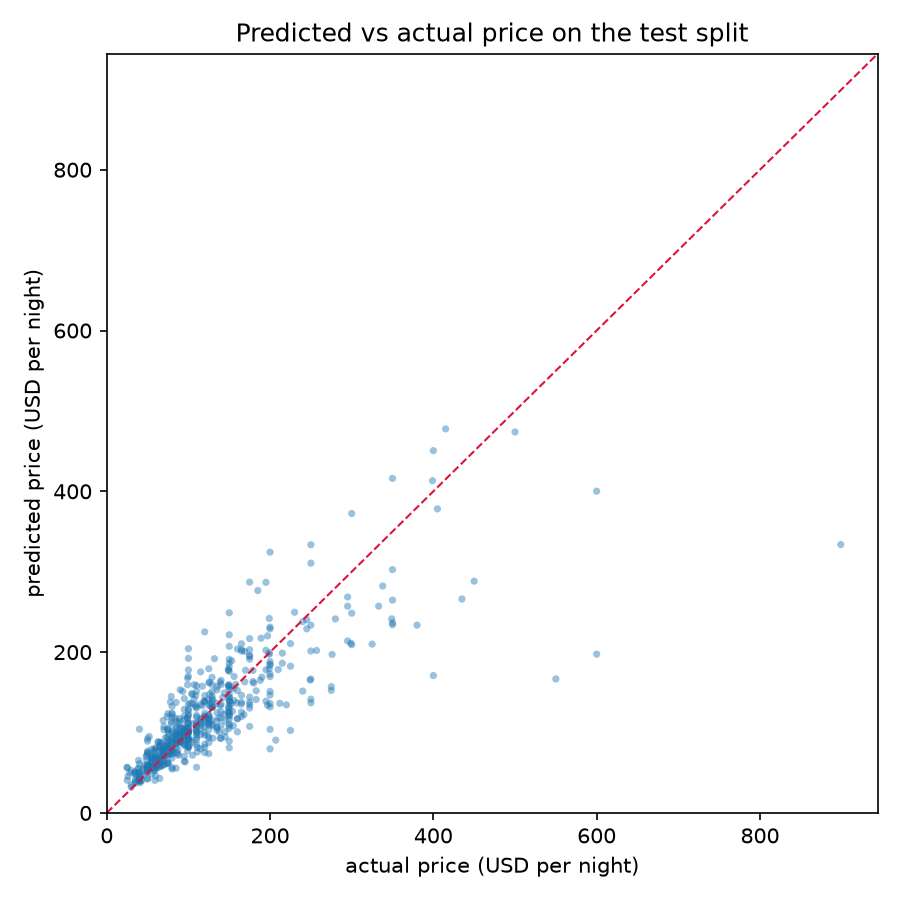
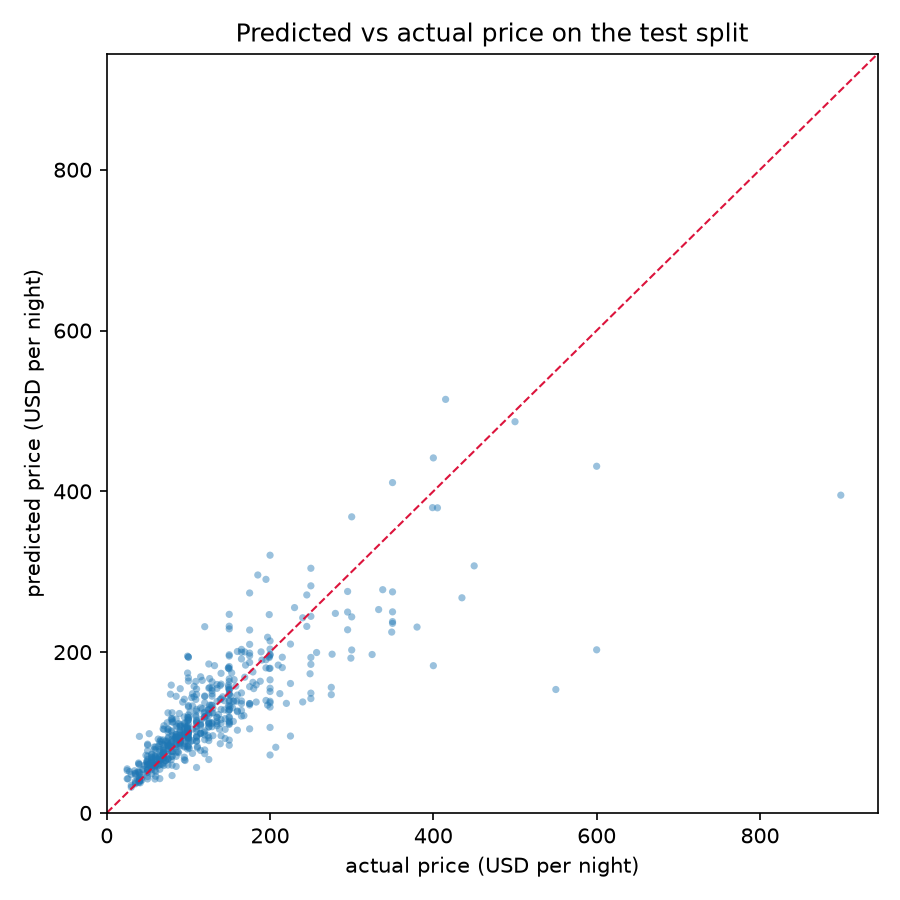
docs: link the live app and API, document deployment, log eval plots to MLflow (#2)
* docs: link the live app and API, document deployment, log eval plots to MLflow

* docs: link the live app and API, document deployment, log eval plots to MLflow

* docs: add dataset and licence links

diff --git a/src/evaluate.py b/src/evaluate.py
@@ -9,7 +9,7 @@ Usage:
 Functions provided:
 - plot_predictions: scatter of predicted against actual price
 - plot_residuals:   histogram of the residuals in dollars
-- main:             reload the saved model and regenerate the plots
+- main:             reload the saved model, regenerate the plots and log them
 """
 
 import json
@@ -17,6 +17,7 @@ from pathlib import Path
 
 import joblib
 import matplotlib.pyplot as plt
+import mlflow
 import numpy as np
 import yaml
 
@@ -140,6 +141,14 @@ def main(config_path="config.yaml"):
 
     print(f"wrote     : {predictions_path}")
     print(f"wrote     : {residuals_path}")
+
+    tracking_cfg = cfg.get("tracking", {})
+    mlflow.set_tracking_uri(tracking_cfg.get("tracking_uri", "sqlite:///mlflow.db"))
+    with mlflow.start_run(run_id=card["run_id"]):
+        mlflow.log_artifact(str(predictions_path))
+        mlflow.log_artifact(str(residuals_path))
+
+    print(f"logged    : both plots to MLflow run {card['run_id']}")
 
 
 if __name__ == "__main__":

diff --git a/README.md b/README.md
@@ -2,11 +2,17 @@
 
 AI PI 510 — Module 3, Project 3
 
+- **Prediction form:** https://510-module-3.vercel.app
+- **Prediction API:** https://seattle-api-236572670166.us-central1.run.app
+
+The form forwards both requests through the deployed API. The first request
+after an idle period takes a few extra seconds while Cloud Run starts an
+instance.
+
 ## Review the API and form locally
 
 With Docker running and Node.js and npm installed, open two terminals in the
-repository root. To review the feature before it is merged, run
-`git fetch origin` and `git switch feature/prediction-api` first.
+repository root.
 
 **Terminal 1 — start FastAPI**
 
@@ -45,8 +51,12 @@ tracking, a containerised API, and a frontend that calls it.
 
 ## Data
 
-Three CSVs from Inside Airbnb, Seattle snapshot of 2016-01-04. Also published
-on Kaggle as `airbnb/seattle` under CC0.
+Three CSVs from Inside Airbnb, Seattle snapshot of 2016-01-04, published on
+Kaggle under CC0.
+
+- Dataset: https://www.kaggle.com/datasets/airbnb/seattle
+- Original source: https://insideairbnb.com/get-the-data/
+- Licence: https://creativecommons.org/publicdomain/zero/1.0/
 
 | File | Rows | What one row is |
 | --- | --- | --- |
@@ -109,6 +119,17 @@ The API uses a separate gradient-boosting pipeline trained on the five fields
 above. It saves the fitted categorical encoders with the model and logs its
 validation and test metrics to MLflow. It scored $32.87 validation MAE and
 $31.03 test MAE on the same splits as the exploratory models.
+
+Two models, two sets of numbers: the 107-feature model is the research result
+reported above, the five-field model is what the live form actually calls. The
+second one is weaker because it only sees room type, neighbourhood and capacity.
+
+![Predicted against actual price on the test split](reports/predictions.png)
+
+![Residual distribution on the test split](reports/residuals.png)
+
+Both plots are written by `python src/evaluate.py` and logged as MLflow
+artifacts on the training run they belong to.
 
 ## How to run
 
@@ -194,6 +215,42 @@ Capitol Hill listing returns $183.01 with the bundled model. To use another
 API, set `MODEL_API_URL` in `interface/.env.local` before starting Next.js or
 building for production. Next.js forwards the metadata and prediction requests.
 
+## Deploy
+
+The API runs on Cloud Run, the form on Vercel. Both sit inside their free tier.
+
+### API
+
+```bash
+gcloud auth login
+gcloud config set project your-project-id
+
+gcloud run deploy seattle-api \
+  --source . \
+  --region us-central1 \
+  --allow-unauthenticated \
+  --port 8000 \
+  --memory 1Gi
+```
+
+`--source .` uploads the working directory, builds the Dockerfile with Cloud
+Build and deploys the last stage, which already has the model baked in. The
+`.gcloudignore` file keeps the raw CSVs, the virtualenv and the frontend out of
+that upload. `--memory 1Gi` is required: pandas and scikit-learn do not fit in
+the default 512 MiB.
+
+On a fresh project the first deploy fails with `PERMISSION_DENIED` until the
+build service accounts receive `roles/serviceusage.serviceUsageConsumer`,
+`roles/cloudbuild.builds.builder` and `roles/storage.objectAdmin`. The grant
+needs a few minutes to propagate before the retry succeeds.
+
+### Form
+
+Import the repository into Vercel, set **Root Directory** to `interface`, and
+add `MODEL_API_URL` with the Cloud Run URL. `interface/next.config.ts` rewrites
+`/api/metadata` and `/api/predict` to that address, so the browser only talks to
+the Vercel origin and there is no CORS setup to maintain.
+
 ## Repo layout
 
 ```
@@ -206,25 +263,42 @@ script/tune.py       grid search over the boosting parameters
 notebooks/eda.ipynb  the exploration behind every decision above
 data/                raw data, interim export and processed training splits
 models/              local model artifacts and the research model card
+reports/             the two evaluation plots referenced above
 interface/           Next.js frontend
 api/                 FastAPI prediction service
 Dockerfile           container build for training and serving
+.gcloudignore        keeps data and the frontend out of the Cloud Build upload
 ```
+
+## Limitations
+
+- The snapshot is from January 2016. Seattle prices and the short-term rental
+  market have moved a lot since, so the numbers are not a current estimate.
+- `listings.price` is the advertised nightly rate, not what guests actually
+  paid. Discounts and fees are not in the data.
+- The five-field serving model cannot see amenities, host history, seasonality
+  or review scores, so it is weaker than the research model by about $4 MAE.
+- Average error is roughly 30% of the median nightly price. A prediction is a
+  reference point, not a pricing decision.
+- Neighbourhood is a strong input, so the model inherits whatever pricing
+  patterns existed in 2016, including any disparities between areas.
+- Not usable for real pricing, lending or regulatory decisions.
 
 ## Status
 
 Done: data download, EDA, cleaning, feature engineering, training,
-evaluation, MLflow tracking, `config.yaml`, local FastAPI service, and Docker
-packaging for training and serving.
+evaluation, MLflow tracking, `config.yaml`, the FastAPI service, Docker
+packaging for training and serving, deployment to Cloud Run, and the Next.js
+form on Vercel.
 
 Not done yet:
 
-- Deployment of the API to a cloud platform
-- Hosting the Next.js prediction form publicly
-- Hosting the data in cloud storage and reading it from there
+- Hosting the data in cloud storage and reading it from S3 inside the pipeline
 
 ## Next
 
-1. Deploy the API and confirm `/predict` responds publicly
-2. Host the Next.js form and point it at the deployed API
+1. Move the raw CSVs to cloud storage and add a `source` switch to `read_files`
+2. Drop `data/raw` and `data/interim` from git once the pipeline can fetch them
+3. Trim MLflow out of the runtime image and into a build-only dependency
 3. Host the cleaned dataset in cloud storage and have the pipeline pull from there
+
